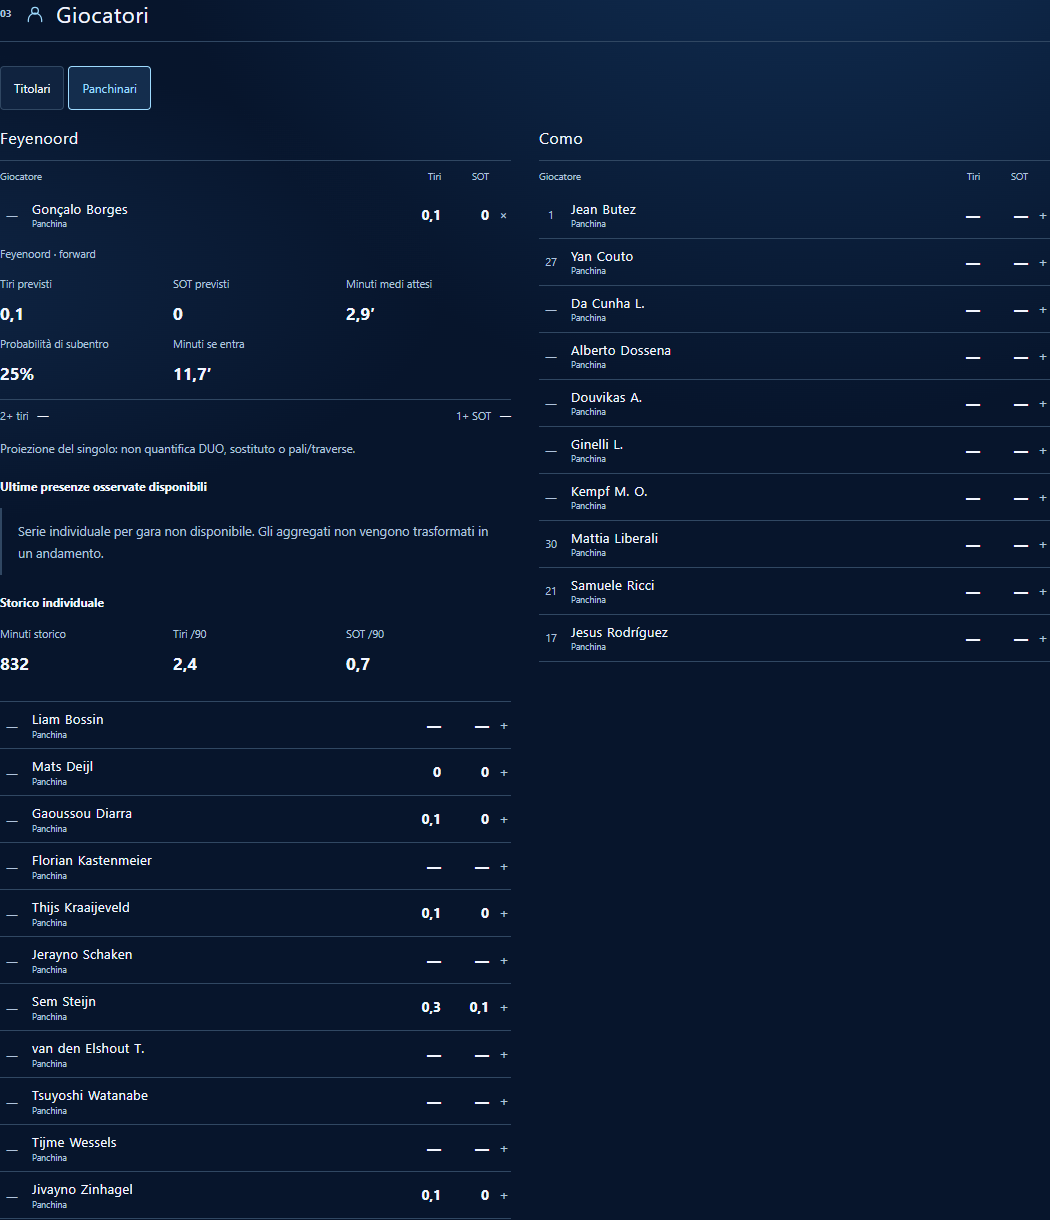
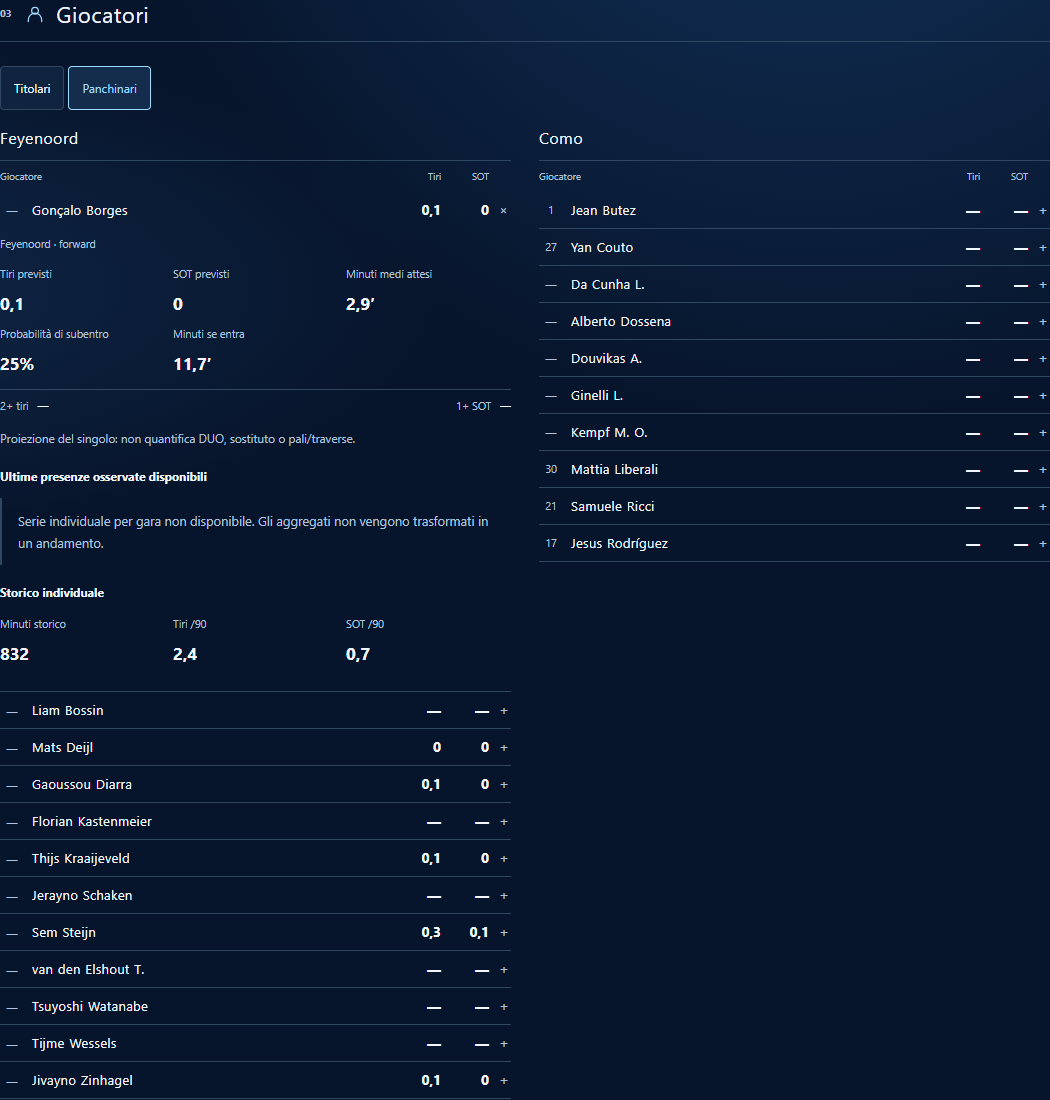
panchinari

diff --git a/champions-league.html b/champions-league.html
@@ -1,2 +1,2 @@
 <!doctype html>
-<html lang="it"><head><meta charset="utf-8"><meta name="viewport" content="width=device-width,initial-scale=1"><meta name="description" content="Serie A e Coppa Italia 2026/27: Champions League"><title>Champions League | Serie A 2026/27</title><link rel="preconnect" href="https://fonts.googleapis.com"><link rel="preconnect" href="https://fonts.gstatic.com" crossorigin><link href="https://fonts.googleapis.com/css2?family=Anton&family=Inter:ital,opsz,wght@0,14..32,100..900;1,14..32,100..900&display=swap" rel="stylesheet"><link rel="stylesheet" href="css/base.css?v=3967aefeb4d0"><link rel="stylesheet" href="css/layout.css?v=c7310d8c4d5a"><link rel="stylesheet" href="css/components.css?v=a3acd98814c7"><link rel="stylesheet" href="css/home.css?v=7b9f2c044fd7"><link rel="stylesheet" href="css/matches.css?v=66d327e0bde7"><link rel="stylesheet" href="css/team.css?v=875f24fdfc97"><link rel="stylesheet" href="css/players.css?v=303f872e3c52"><link rel="stylesheet" href="css/fantasy.css?v=5f3afa0410d1"><link rel="stylesheet" href="css/betting.css?v=c36f598697cc"><link rel="stylesheet" href="css/responsive.css?v=a79dbdace190"><link rel="stylesheet" href="css/buttons.css?v=c3eb7586a4f9"><link rel="stylesheet" href="css/champions.css?v=68a45330f98f"><link rel="stylesheet" href="css/site-layout.css?v=591fd0502871"><link rel="stylesheet" href="css/page-background.css?v=38118e543bd1"><link rel="stylesheet" href="css/reading-detail.css?v=5389b4b61f1a" data-reading-detail-css><script src="js/public-presentation.js?v=20261016-public-policy"></script></head><body data-page="champions"><script src="js/initial-presentation.js?v=bca5a772523e"></script><header id="site-top" class="site-header"><a class="brand" href="index.html"><span class="brand-mark"><img src="assets/images/serie-a-logo-mark.png" alt=""></span><span><strong>Serie A 2026/27</strong><small>Campionato e Coppa Italia</small></span></a><button class="menu-button" type="button" aria-controls="site-nav" aria-expanded="false">Menu</button><nav id="site-nav" class="site-nav" aria-label="Navigazione principale"><a class="page-link" data-page-link="home" href="index.html">Home</a><a class="page-link" data-page-link="team-stats" href="statistiche-squadre.html">Statistiche squadre</a><a class="page-link" data-page-link="readings" href="lettura.html">Lettura</a><a class="page-link" data-page-link="cup" href="coppa-italia.html">Coppa Italia</a><a class="page-link active" data-page-link="champions" href="champions-league.html">Champions League</a><a class="page-link" data-page-link="betting" href="schedina.html">Schedina</a></nav></header><main id="app" tabindex="-1"><section class="loading"><p class="eyebrow">Caricamento</p><h1>Champions League</h1></section></main><footer class="site-footer"><div class="site-footer-inner"><div class="site-footer-top"><div class="site-footer-intro"><a class="footer-brand" href="index.html"><span class="footer-brand-mark"><img src="assets/images/serie-a-logo-mark.png" alt=""></span><span><strong>Serie A 2026/27</strong><small>Campionato e Coppa Italia</small></span></a><p>Calendario, rose, statistiche e letture della stagione raccolti in un unico spazio.</p><span class="footer-season">Stagione 2026/27</span></div><nav class="footer-nav" aria-label="Navigazione nel footer"><div><strong>Campionato</strong><a href="index.html">Home</a><a href="statistiche-squadre.html">Statistiche squadre</a></div><div><strong>Approfondimenti</strong><a href="lettura.html">Lettura</a><a href="coppa-italia.html">Coppa Italia</a><a href="champions-league.html">Champions League</a><a href="schedina.html">Schedina</a></div></nav></div><div class="site-footer-bottom"><p>Progetto statico indipendente</p><a href="#site-top">Torna su <span aria-hidden="true">↑</span></a></div></div></footer><script type="module" src="js/app.js?v=20261018-referee-compact-v1"></script></body></html>
+<html lang="it"><head><meta charset="utf-8"><meta name="viewport" content="width=device-width,initial-scale=1"><meta name="description" content="Serie A e Coppa Italia 2026/27: Champions League"><title>Champions League | Serie A 2026/27</title><link rel="preconnect" href="https://fonts.googleapis.com"><link rel="preconnect" href="https://fonts.gstatic.com" crossorigin><link href="https://fonts.googleapis.com/css2?family=Anton&family=Inter:ital,opsz,wght@0,14..32,100..900;1,14..32,100..900&display=swap" rel="stylesheet"><link rel="stylesheet" href="css/base.css?v=3967aefeb4d0"><link rel="stylesheet" href="css/layout.css?v=c7310d8c4d5a"><link rel="stylesheet" href="css/components.css?v=a3acd98814c7"><link rel="stylesheet" href="css/home.css?v=7b9f2c044fd7"><link rel="stylesheet" href="css/matches.css?v=66d327e0bde7"><link rel="stylesheet" href="css/team.css?v=875f24fdfc97"><link rel="stylesheet" href="css/players.css?v=303f872e3c52"><link rel="stylesheet" href="css/fantasy.css?v=5f3afa0410d1"><link rel="stylesheet" href="css/betting.css?v=c36f598697cc"><link rel="stylesheet" href="css/responsive.css?v=a79dbdace190"><link rel="stylesheet" href="css/buttons.css?v=c3eb7586a4f9"><link rel="stylesheet" href="css/champions.css?v=68a45330f98f"><link rel="stylesheet" href="css/site-layout.css?v=591fd0502871"><link rel="stylesheet" href="css/page-background.css?v=38118e543bd1"><link rel="stylesheet" href="css/reading-detail.css?v=5f9caab8c24e" data-reading-detail-css><script src="js/public-presentation.js?v=20261016-public-policy"></script></head><body data-page="champions"><script src="js/initial-presentation.js?v=bca5a772523e"></script><header id="site-top" class="site-header"><a class="brand" href="index.html"><span class="brand-mark"><img src="assets/images/serie-a-logo-mark.png" alt=""></span><span><strong>Serie A 2026/27</strong><small>Campionato e Coppa Italia</small></span></a><button class="menu-button" type="button" aria-controls="site-nav" aria-expanded="false">Menu</button><nav id="site-nav" class="site-nav" aria-label="Navigazione principale"><a class="page-link" data-page-link="home" href="index.html">Home</a><a class="page-link" data-page-link="team-stats" href="statistiche-squadre.html">Statistiche squadre</a><a class="page-link" data-page-link="readings" href="lettura.html">Lettura</a><a class="page-link" data-page-link="cup" href="coppa-italia.html">Coppa Italia</a><a class="page-link active" data-page-link="champions" href="champions-league.html">Champions League</a><a class="page-link" data-page-link="betting" href="schedina.html">Schedina</a></nav></header><main id="app" tabindex="-1"><section class="loading"><p class="eyebrow">Caricamento</p><h1>Champions League</h1></section></main><footer class="site-footer"><div class="site-footer-inner"><div class="site-footer-top"><div class="site-footer-intro"><a class="footer-brand" href="index.html"><span class="footer-brand-mark"><img src="assets/images/serie-a-logo-mark.png" alt=""></span><span><strong>Serie A 2026/27</strong><small>Campionato e Coppa Italia</small></span></a><p>Calendario, rose, statistiche e letture della stagione raccolti in un unico spazio.</p><span class="footer-season">Stagione 2026/27</span></div><nav class="footer-nav" aria-label="Navigazione nel footer"><div><strong>Campionato</strong><a href="index.html">Home</a><a href="statistiche-squadre.html">Statistiche squadre</a></div><div><strong>Approfondimenti</strong><a href="lettura.html">Lettura</a><a href="coppa-italia.html">Coppa Italia</a><a href="champions-league.html">Champions League</a><a href="schedina.html">Schedina</a></div></nav></div><div class="site-footer-bottom"><p>Progetto statico indipendente</p><a href="#site-top">Torna su <span aria-hidden="true">↑</span></a></div></div></footer><script type="module" src="js/app.js?v=20261018-referee-compact-v1"></script></body></html>

diff --git a/lettura.html b/lettura.html
@@ -1,2 +1,2 @@
 <!doctype html>
-<html lang="it"><head><meta charset="utf-8"><meta name="viewport" content="width=device-width,initial-scale=1"><meta name="description" content="Serie A e Coppa Italia 2026/27: Lettura"><title>Lettura | Serie A 2026/27</title><link rel="preconnect" href="https://fonts.googleapis.com"><link rel="preconnect" href="https://fonts.gstatic.com" crossorigin><link href="https://fonts.googleapis.com/css2?family=Anton&family=Inter:ital,opsz,wght@0,14..32,100..900;1,14..32,100..900&display=swap" rel="stylesheet"><link rel="stylesheet" href="css/base.css?v=3967aefeb4d0"><link rel="stylesheet" href="css/layout.css?v=c7310d8c4d5a"><link rel="stylesheet" href="css/components.css?v=a3acd98814c7"><link rel="stylesheet" href="css/home.css?v=7b9f2c044fd7"><link rel="stylesheet" href="css/matches.css?v=66d327e0bde7"><link rel="stylesheet" href="css/team.css?v=875f24fdfc97"><link rel="stylesheet" href="css/players.css?v=303f872e3c52"><link rel="stylesheet" href="css/fantasy.css?v=5f3afa0410d1"><link rel="stylesheet" href="css/betting.css?v=c36f598697cc"><link rel="stylesheet" href="css/responsive.css?v=a79dbdace190"><link rel="stylesheet" href="css/buttons.css?v=c3eb7586a4f9"><link rel="stylesheet" href="css/champions.css?v=68a45330f98f"><link rel="stylesheet" href="css/site-layout.css?v=591fd0502871"><link rel="stylesheet" href="css/page-background.css?v=38118e543bd1"><link rel="stylesheet" href="css/reading-detail.css?v=5389b4b61f1a" data-reading-detail-css><script src="js/public-presentation.js?v=20261016-public-policy"></script></head><body data-page="readings"><script src="js/initial-presentation.js?v=bca5a772523e"></script><header id="site-top" class="site-header"><a class="brand" href="index.html"><span class="brand-mark"><img src="assets/images/serie-a-logo-mark.png" alt=""></span><span><strong>Serie A 2026/27</strong><small>Campionato e Coppa Italia</small></span></a><button class="menu-button" type="button" aria-controls="site-nav" aria-expanded="false">Menu</button><nav id="site-nav" class="site-nav" aria-label="Navigazione principale"><a class="page-link" data-page-link="home" href="index.html">Home</a><a class="page-link" data-page-link="team-stats" href="statistiche-squadre.html">Statistiche squadre</a><a class="page-link active" data-page-link="readings" href="lettura.html">Lettura</a><a class="page-link" data-page-link="cup" href="coppa-italia.html">Coppa Italia</a><a class="page-link" data-page-link="champions" href="champions-league.html">Champions League</a><a class="page-link" data-page-link="betting" href="schedina.html">Schedina</a></nav></header><main id="app" tabindex="-1"><section class="loading"><p class="eyebrow">Caricamento</p><h1>Lettura</h1></section></main><footer class="site-footer"><div class="site-footer-inner"><div class="site-footer-top"><div class="site-footer-intro"><a class="footer-brand" href="index.html"><span class="footer-brand-mark"><img src="assets/images/serie-a-logo-mark.png" alt=""></span><span><strong>Serie A 2026/27</strong><small>Campionato e Coppa Italia</small></span></a><p>Calendario, rose, statistiche e letture della stagione raccolti in un unico spazio.</p><span class="footer-season">Stagione 2026/27</span></div><nav class="footer-nav" aria-label="Navigazione nel footer"><div><strong>Campionato</strong><a href="index.html">Home</a><a href="statistiche-squadre.html">Statistiche squadre</a></div><div><strong>Approfondimenti</strong><a href="lettura.html">Lettura</a><a href="coppa-italia.html">Coppa Italia</a><a href="champions-league.html">Champions League</a><a href="schedina.html">Schedina</a></div></nav></div><div class="site-footer-bottom"><p>Progetto statico indipendente</p><a href="#site-top">Torna su <span aria-hidden="true">↑</span></a></div></div></footer><script type="module" src="js/app.js?v=20261018-referee-compact-v1"></script></body></html>
+<html lang="it"><head><meta charset="utf-8"><meta name="viewport" content="width=device-width,initial-scale=1"><meta name="description" content="Serie A e Coppa Italia 2026/27: Lettura"><title>Lettura | Serie A 2026/27</title><link rel="preconnect" href="https://fonts.googleapis.com"><link rel="preconnect" href="https://fonts.gstatic.com" crossorigin><link href="https://fonts.googleapis.com/css2?family=Anton&family=Inter:ital,opsz,wght@0,14..32,100..900;1,14..32,100..900&display=swap" rel="stylesheet"><link rel="stylesheet" href="css/base.css?v=3967aefeb4d0"><link rel="stylesheet" href="css/layout.css?v=c7310d8c4d5a"><link rel="stylesheet" href="css/components.css?v=a3acd98814c7"><link rel="stylesheet" href="css/home.css?v=7b9f2c044fd7"><link rel="stylesheet" href="css/matches.css?v=66d327e0bde7"><link rel="stylesheet" href="css/team.css?v=875f24fdfc97"><link rel="stylesheet" href="css/players.css?v=303f872e3c52"><link rel="stylesheet" href="css/fantasy.css?v=5f3afa0410d1"><link rel="stylesheet" href="css/betting.css?v=c36f598697cc"><link rel="stylesheet" href="css/responsive.css?v=a79dbdace190"><link rel="stylesheet" href="css/buttons.css?v=c3eb7586a4f9"><link rel="stylesheet" href="css/champions.css?v=68a45330f98f"><link rel="stylesheet" href="css/site-layout.css?v=591fd0502871"><link rel="stylesheet" href="css/page-background.css?v=38118e543bd1"><link rel="stylesheet" href="css/reading-detail.css?v=5f9caab8c24e" data-reading-detail-css><script src="js/public-presentation.js?v=20261016-public-policy"></script></head><body data-page="readings"><script src="js/initial-presentation.js?v=bca5a772523e"></script><header id="site-top" class="site-header"><a class="brand" href="index.html"><span class="brand-mark"><img src="assets/images/serie-a-logo-mark.png" alt=""></span><span><strong>Serie A 2026/27</strong><small>Campionato e Coppa Italia</small></span></a><button class="menu-button" type="button" aria-controls="site-nav" aria-expanded="false">Menu</button><nav id="site-nav" class="site-nav" aria-label="Navigazione principale"><a class="page-link" data-page-link="home" href="index.html">Home</a><a class="page-link" data-page-link="team-stats" href="statistiche-squadre.html">Statistiche squadre</a><a class="page-link active" data-page-link="readings" href="lettura.html">Lettura</a><a class="page-link" data-page-link="cup" href="coppa-italia.html">Coppa Italia</a><a class="page-link" data-page-link="champions" href="champions-league.html">Champions League</a><a class="page-link" data-page-link="betting" href="schedina.html">Schedina</a></nav></header><main id="app" tabindex="-1"><section class="loading"><p class="eyebrow">Caricamento</p><h1>Lettura</h1></section></main><footer class="site-footer"><div class="site-footer-inner"><div class="site-footer-top"><div class="site-footer-intro"><a class="footer-brand" href="index.html"><span class="footer-brand-mark"><img src="assets/images/serie-a-logo-mark.png" alt=""></span><span><strong>Serie A 2026/27</strong><small>Campionato e Coppa Italia</small></span></a><p>Calendario, rose, statistiche e letture della stagione raccolti in un unico spazio.</p><span class="footer-season">Stagione 2026/27</span></div><nav class="footer-nav" aria-label="Navigazione nel footer"><div><strong>Campionato</strong><a href="index.html">Home</a><a href="statistiche-squadre.html">Statistiche squadre</a></div><div><strong>Approfondimenti</strong><a href="lettura.html">Lettura</a><a href="coppa-italia.html">Coppa Italia</a><a href="champions-league.html">Champions League</a><a href="schedina.html">Schedina</a></div></nav></div><div class="site-footer-bottom"><p>Progetto statico indipendente</p><a href="#site-top">Torna su <span aria-hidden="true">↑</span></a></div></div></footer><script type="module" src="js/app.js?v=20261018-referee-compact-v1"></script></body></html>

diff --git a/css/reading-detail.css b/css/reading-detail.css
@@ -279,7 +279,7 @@ body[data-reading-detail-theme] #app:has(.rd-slip-trigger){padding-bottom:110px!
 .rd-shell .rd-player-column-labels{display:grid;grid-template-columns:minmax(0,1fr) 40px 40px;gap:8px;padding:8px 22px 7px 0;color:var(--rd-muted);font-size:10px}
 .rd-shell .rd-player-column-labels>span:not(:first-child){text-align:right}
 .rd-shell .rd-player-row{border:0;border-bottom:1px solid var(--rd-line);border-radius:0;margin:0;padding:0;min-width:0;background:none}
-.rd-shell .rd-player-row>summary{display:grid;grid-template-columns:24px minmax(0,1fr) 40px 40px 14px;gap:8px;align-items:center;list-style:none;cursor:pointer;min-height:46px;padding:7px 0}
+.rd-shell .rd-player-row>summary{display:grid;grid-template-columns:24px minmax(0,1fr) 40px 40px 14px;gap:8px;align-items:center;list-style:none;cursor:pointer;min-height:36px;padding:6px 0}
 .rd-shell .rd-player-row>summary::-webkit-details-marker{display:none}
 .rd-shell .rd-player-row>summary::after{content:none}
 .rd-shell .rd-row-number{font-size:11px;color:var(--rd-muted);font-variant-numeric:tabular-nums;text-align:center}
@@ -302,7 +302,7 @@ body[data-reading-detail-theme] #app:has(.rd-slip-trigger){padding-bottom:110px!
  .rd-shell #lettura-giocatori .rd-player-toolbar{gap:8px}
  .rd-shell .rd-player-team-name{font-size:14px;padding:7px 0 10px;min-height:36px}
  .rd-shell .rd-player-column-labels{grid-template-columns:minmax(0,1fr) 24px 24px;gap:4px;padding-right:13px;font-size:9px}
- .rd-shell .rd-player-row>summary{grid-template-columns:17px minmax(0,1fr) 24px 24px 9px;gap:4px;min-height:48px;padding:7px 0}
+ .rd-shell .rd-player-row>summary{grid-template-columns:17px minmax(0,1fr) 24px 24px 9px;gap:4px;min-height:38px;padding:6px 0}
  .rd-shell .rd-row-identity h3{font-size:11px;line-height:1.4}
  .rd-shell .rd-row-number{font-size:9px}
  .rd-shell :is(.rd-row-shot,.rd-row-sot){font-size:12px}
